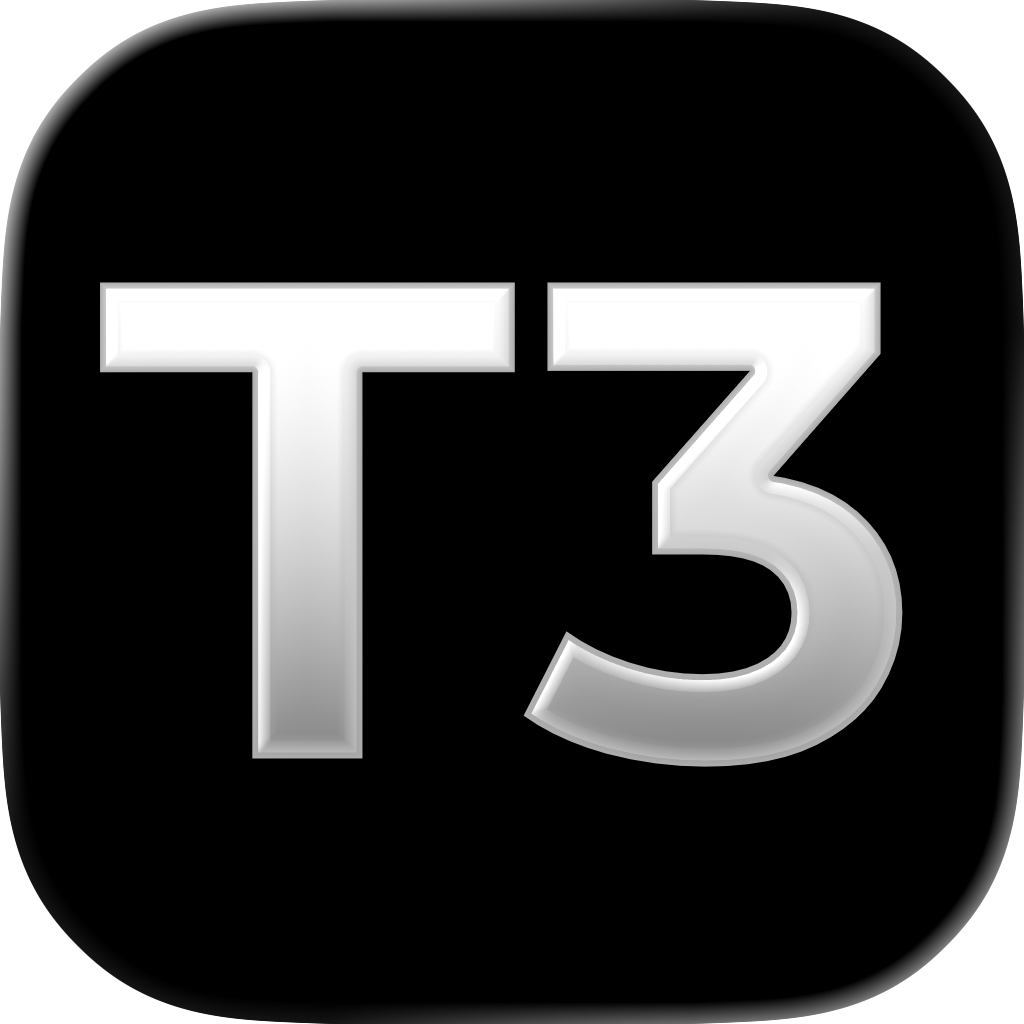
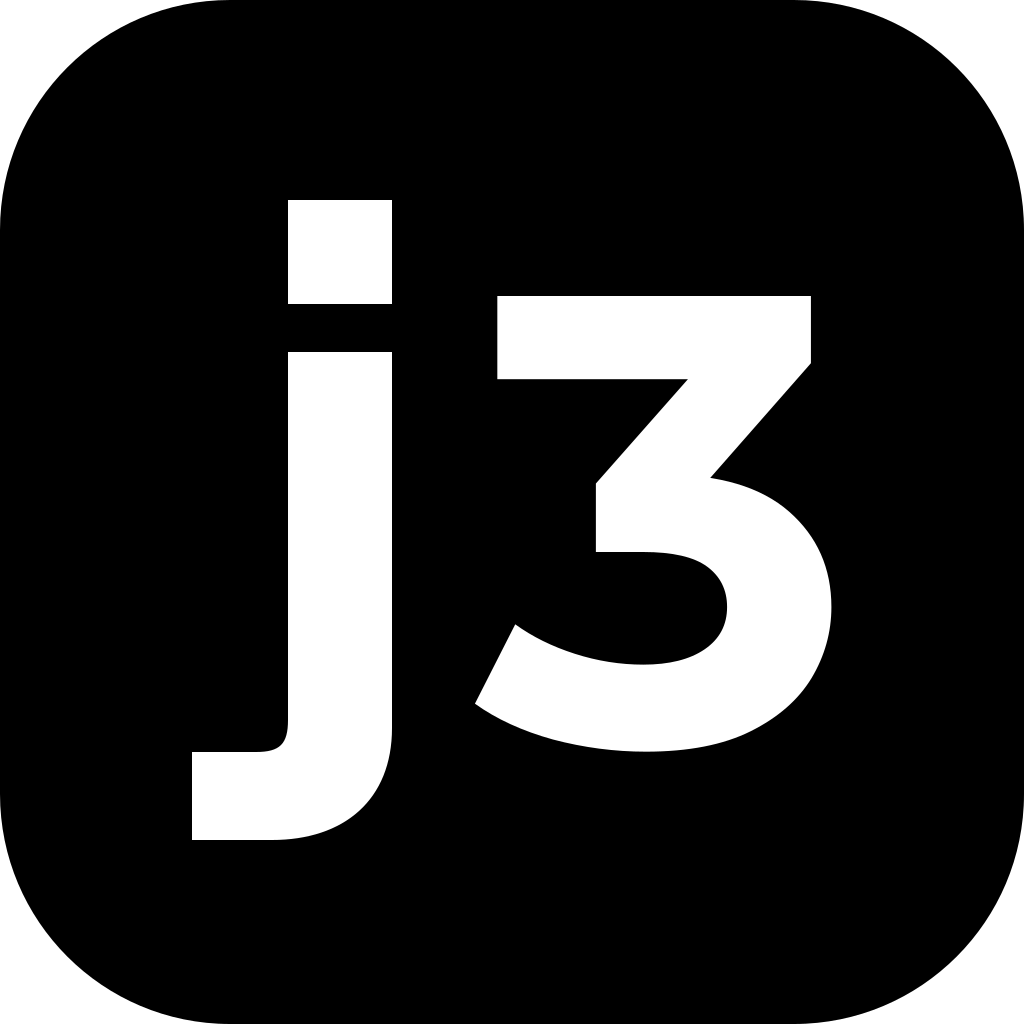
M5 (part 2): iOS app verified on simulator, installed on iPhone
- pin expo-* patch versions to t3's (Release crash: framework/core mismatch)
- j3 branding: title, theme label, client label, app icon
- home empty state gets an Add project action
- README: simulator and personal-team device build commands

diff --git a/apps/mobile/src/components/CompactBrandTitle.tsx b/apps/mobile/src/components/CompactBrandTitle.tsx
@@ -1,13 +1,9 @@
 import { NATIVE_WORKSPACE_COLUMNS_SUPPORTED } from "../native/NativeWorkspaceColumns";
-import Constants from "expo-constants";
 import type { NativeStackNavigationOptions } from "@react-navigation/native-stack";
-import { useState } from "react";
 import { Platform, View } from "react-native";
 
 import { AppText as Text } from "./ui/AppText";
-import { T3Wordmark } from "./T3Wordmark";
 import { IPAD_HOME_TITLE_OFFSET } from "../lib/layoutMetrics";
-import { resolveMobileStageLabel } from "../lib/mobileBranding";
 
 const BRAND_MAX_FONT_SCALE = 1.4;
 
@@ -19,65 +15,31 @@ export function CompactBrandTitle(
   props: {
     readonly allowFontScaling?: boolean;
     readonly accessibilityLabel?: string;
-    /** Fills the row and hides the stage badge when the full title does not fit. */
+    /** Fills the row instead of sizing to the title. */
     readonly fit?: boolean;
   } = {},
 ) {
-  const stageLabel = resolveMobileStageLabel(Constants.expoConfig?.extra?.appVariant);
-  const titleOffset = brandTitleOffset();
-  const [availableWidth, setAvailableWidth] = useState<number | null>(null);
-  // Measured only while the badge shows, so hiding it does not make it look like it fits.
-  const [fullWidth, setFullWidth] = useState<number | null>(null);
-  const showStage =
-    !props.fit || availableWidth === null || fullWidth === null || fullWidth <= availableWidth;
-
   const title = (
     <View
-      onLayout={
-        props.fit && showStage ? (event) => setFullWidth(event.nativeEvent.layout.width) : undefined
-      }
       aria-level={1}
-      accessibilityLabel={props.accessibilityLabel ?? "T3 Code, Threads"}
+      accessibilityLabel={props.accessibilityLabel ?? "j3, Threads"}
       accessible
       role="heading"
-      className="flex-row items-center gap-1.5"
-      style={[{ marginLeft: titleOffset }, props.fit && { flexShrink: 0 }]}
+      className="flex-row items-center"
+      style={[{ marginLeft: brandTitleOffset() }, props.fit && { flexShrink: 0 }]}
     >
-      <T3Wordmark colorClassName="accent-icon" height={15} />
-      {/* A logo beside a fixed-size wordmark: it may grow with Dynamic Type, not crowd the bar. */}
       <Text
         allowFontScaling={props.allowFontScaling}
         maxFontSizeMultiplier={BRAND_MAX_FONT_SCALE}
-        className="font-t3-medium text-foreground-muted"
+        className="font-t3-bold text-foreground"
         style={{ fontSize: 21, letterSpacing: -0.5 }}
       >
-        Code
+        j3
       </Text>
-      {showStage ? (
-        <View className="rounded-full bg-subtle px-1.5 py-0.5">
-          <Text
-            allowFontScaling={props.allowFontScaling}
-            maxFontSizeMultiplier={BRAND_MAX_FONT_SCALE}
-            className="font-t3-bold text-foreground-muted uppercase"
-            style={{ fontSize: 9, letterSpacing: 0.9 }}
-          >
-            {stageLabel}
-          </Text>
-        </View>
-      ) : null}
     </View>
   );
 
-  return props.fit ? (
-    <View
-      className="min-w-0 flex-1 flex-row items-center"
-      onLayout={(event) => setAvailableWidth(event.nativeEvent.layout.width)}
-    >
-      {title}
-    </View>
-  ) : (
-    title
-  );
+  return props.fit ? <View className="min-w-0 flex-1 flex-row items-center">{title}</View> : title;
 }
 
 function renderCompactBrandTitle() {

diff --git a/apps/mobile/src/features/home/HomeScreen.tsx b/apps/mobile/src/features/home/HomeScreen.tsx
@@ -80,6 +80,7 @@ interface HomeScreenProps {
   readonly onEnvironmentChange: (environmentId: EnvironmentId | null) => void;
   readonly onProjectChange: (projectKey: string | null) => void;
   readonly onAddConnection: () => void;
+  readonly onAddProject: () => void;
   readonly onSelectThread: (thread: EnvironmentThreadShell) => void;
   readonly onArchiveThread: (thread: EnvironmentThreadShell) => void;
   readonly onDeleteThread: (thread: EnvironmentThreadShell) => void;
@@ -150,7 +151,7 @@ function deriveEmptyState(props: {
   if (props.projectCount === 0 && catalogState.hasLoadedShellSnapshot) {
     return {
       title: "No projects found",
-      detail: "The connected environment did not report any projects.",
+      detail: "Add a folder on the environment as a project to start a thread there.",
       loading: false,
     };
   }
@@ -486,6 +487,7 @@ export function HomeScreen(props: HomeScreenProps) {
     catalogState: props.catalogState,
     projectCount: props.projects.length,
   });
+  const noProjects = props.projects.length === 0 && props.catalogState.hasLoadedShellSnapshot;
 
   if (!hasAnyThreads) {
     return (
@@ -503,8 +505,20 @@ export function HomeScreen(props: HomeScreenProps) {
             <EmptyState
               title={emptyState.title}
               detail={emptyState.detail}
-              actionLabel={!props.catalogState.hasReadyEnvironment ? "Add environment" : undefined}
-              onAction={!props.catalogState.hasReadyEnvironment ? props.onAddConnection : undefined}
+              actionLabel={
+                !props.catalogState.hasReadyEnvironment
+                  ? "Add environment"
+                  : noProjects
+                    ? "Add project"
+                    : undefined
+              }
+              onAction={
+                !props.catalogState.hasReadyEnvironment
+                  ? props.onAddConnection
+                  : noProjects
+                    ? props.onAddProject
+                    : undefined
+              }
               variant="plain"
             />
             {emptyState.loading ? (

diff --git a/apps/mobile/src/features/home/HomeRouteScreen.tsx b/apps/mobile/src/features/home/HomeRouteScreen.tsx
@@ -164,6 +164,7 @@ export function HomeRouteScreen() {
         catalogState={catalogState}
         environments={environments}
         onAddConnection={() => openSettings(navigation, "SettingsEnvironmentNew")}
+        onAddProject={() => navigation.navigate("AddProject")}
         onArchiveThread={archiveThread}
         onDeleteThread={confirmDeleteThread}
         onRenameThread={renameThread}

diff --git a/apps/mobile/app.config.ts b/apps/mobile/app.config.ts
@@ -1,6 +1,6 @@
 import type { ExpoConfig } from "expo/config";
 
-// Icons are still the T3 Code production artwork, copied from t3code's root `assets/prod`.
+// The icon is the "3" of t3code's glyph with a "j": a flat PNG and an Icon Composer project.
 const ICON_PNG = "./assets/brand/ios-icon-1024.png";
 const ICON_COMPOSER_PROJECT = "./assets/brand/app-icon.icon";
 

diff --git a/apps/mobile/src/lib/mobileTheme.ts b/apps/mobile/src/lib/mobileTheme.ts
@@ -26,7 +26,7 @@ export const MOBILE_THEME_OPTIONS: ReadonlyArray<{
   readonly id: MobileThemeId;
   readonly label: string;
 }> = [
-  { id: DEFAULT_MOBILE_THEME_ID, label: "T3 Code" },
+  { id: DEFAULT_MOBILE_THEME_ID, label: "j3" },
   ...BUILT_IN_THEMES.map((theme) => ({ id: theme.id as MobileThemeId, label: theme.label })),
 ];
 

diff --git a/apps/mobile/src/lib/authClientMetadata.ts b/apps/mobile/src/lib/authClientMetadata.ts
@@ -7,7 +7,7 @@ export function authClientMetadata(appVersion?: string): AuthClientPresentationM
   const deviceModel = Device.modelName?.trim();
 
   return {
-    label: "T3 Code Mobile",
+    label: "j3 iOS",
     deviceType:
       Device.deviceType === Device.DeviceType.TABLET
         ? "tablet"

diff --git a/apps/mobile/README.md b/apps/mobile/README.md
@@ -22,7 +22,21 @@ pnpm start          # Metro only, for a build that is already installed
 ```
 
 `pnpm ios:release` builds the Release configuration with the JS bundle embedded, so it runs
-without Metro.
+without Metro. The same build with `xcodebuild` directly (a cold build takes about 20 minutes):
+
+```sh
+EXPO_NO_GIT_STATUS=1 pnpm exec expo prebuild --clean --platform ios
+cd ios
+xcodebuild -workspace j3.xcworkspace -scheme j3 -configuration Release \
+  -sdk iphonesimulator -destination "generic/platform=iOS Simulator" \
+  -derivedDataPath /tmp/j3-dd build
+xcrun simctl install booted /tmp/j3-dd/Build/Products/Release-iphonesimulator/j3.app
+xcrun simctl launch booted dev.jacobyuill.j3code
+```
+
+Expo modules ship precompiled iOS frameworks tied to one `expo-modules-core` build, so the
+root `pnpm-workspace.yaml` pins the `expo-*` patch versions; a newer one aborts at launch with a
+dyld "Symbol not found" in an `Expo*.framework`.
 
 ## Run on your iPhone with a personal team
 
@@ -36,6 +50,18 @@ own free Apple ID team, change `appleTeamId` (and the bundle id if it is taken),
    ```sh
    EXPO_NO_GIT_STATUS=1 pnpm exec expo prebuild --clean --platform ios
    pnpm exec expo run:ios --device --configuration Release
+   ```
+
+   Or without the Expo CLI, from `ios/`:
+
+   ```sh
+   xcodebuild -workspace j3.xcworkspace -scheme j3 -configuration Release -sdk iphoneos \
+     -destination "generic/platform=iOS" -derivedDataPath /tmp/j3-dd-device \
+     -allowProvisioningUpdates DEVELOPMENT_TEAM=8NY34B669X CODE_SIGN_STYLE=Automatic build
+   xcrun devicectl list devices
+   xcrun devicectl device install app --device <udid> \
+     /tmp/j3-dd-device/Build/Products/Release-iphoneos/j3.app
+   xcrun devicectl device process launch --device <udid> dev.jacobyuill.j3code
    ```
 
 4. On first launch, trust the developer profile under Settings > General > VPN & Device

diff --git a/PLAN.md b/PLAN.md
@@ -72,7 +72,7 @@ contrib/systemd/    user unit for j3-server
 ```
 
 Protocol check against a running server (uses real omp and spends tokens):
-`cd tests/conformance && npm ci && npm run conformance -- --url http://127.0.0.1:3780 --model <provider/id> --project <dir on that host>`.
+`cd tests/conformance && pnpm conformance --url http://127.0.0.1:3780 --model <provider/id> --project <dir on that host>` (after `pnpm install` at the root).
 
 ## omp integration
 
